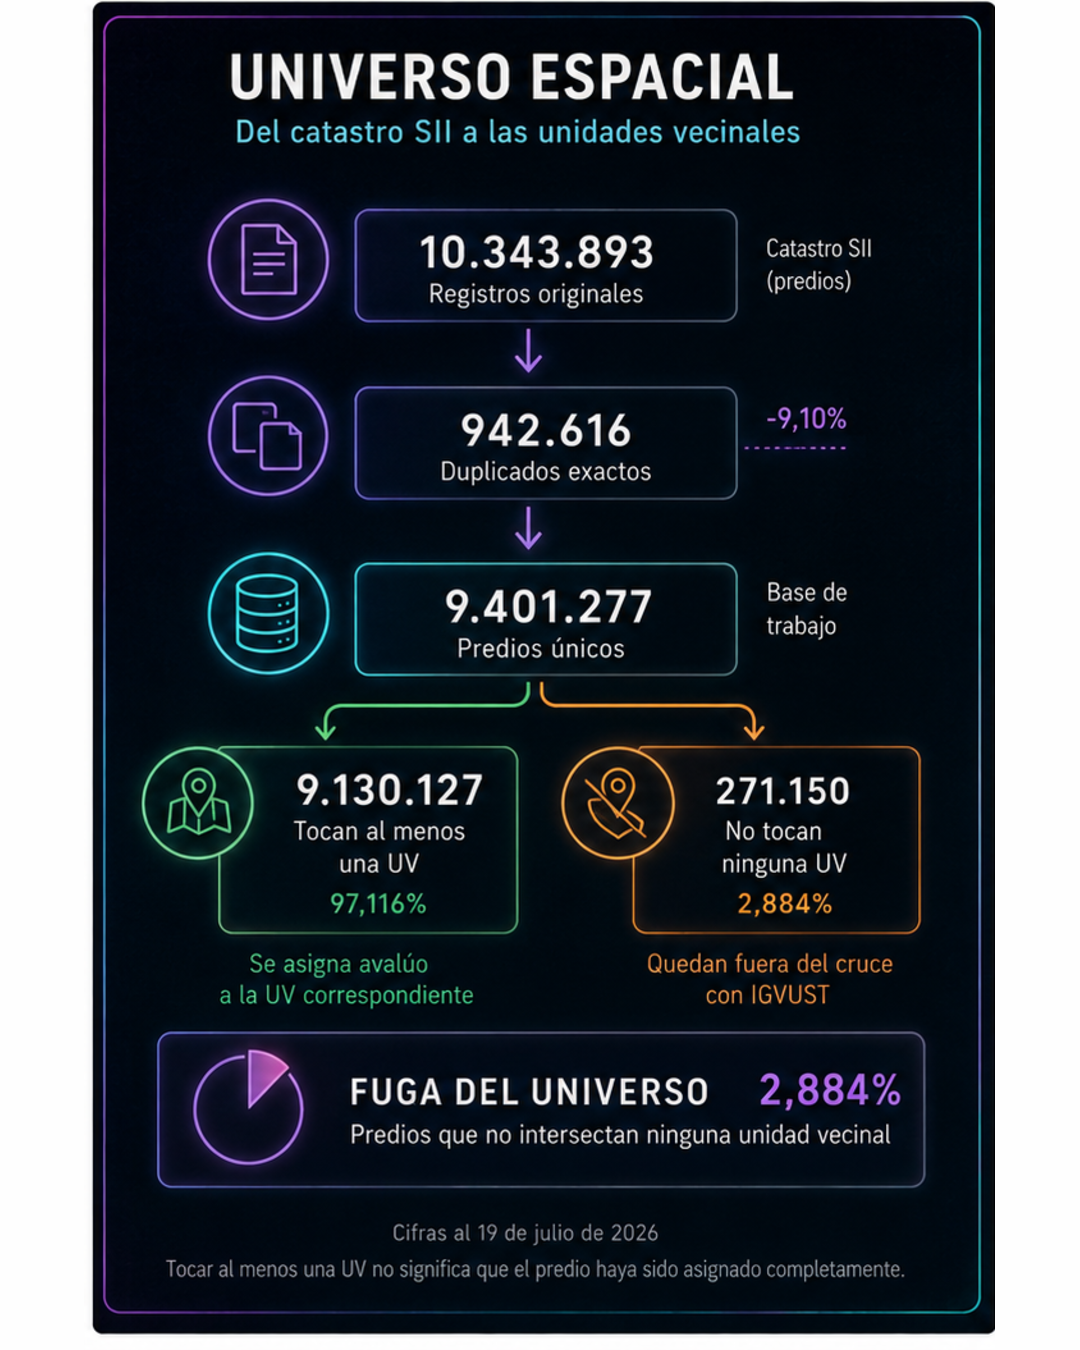
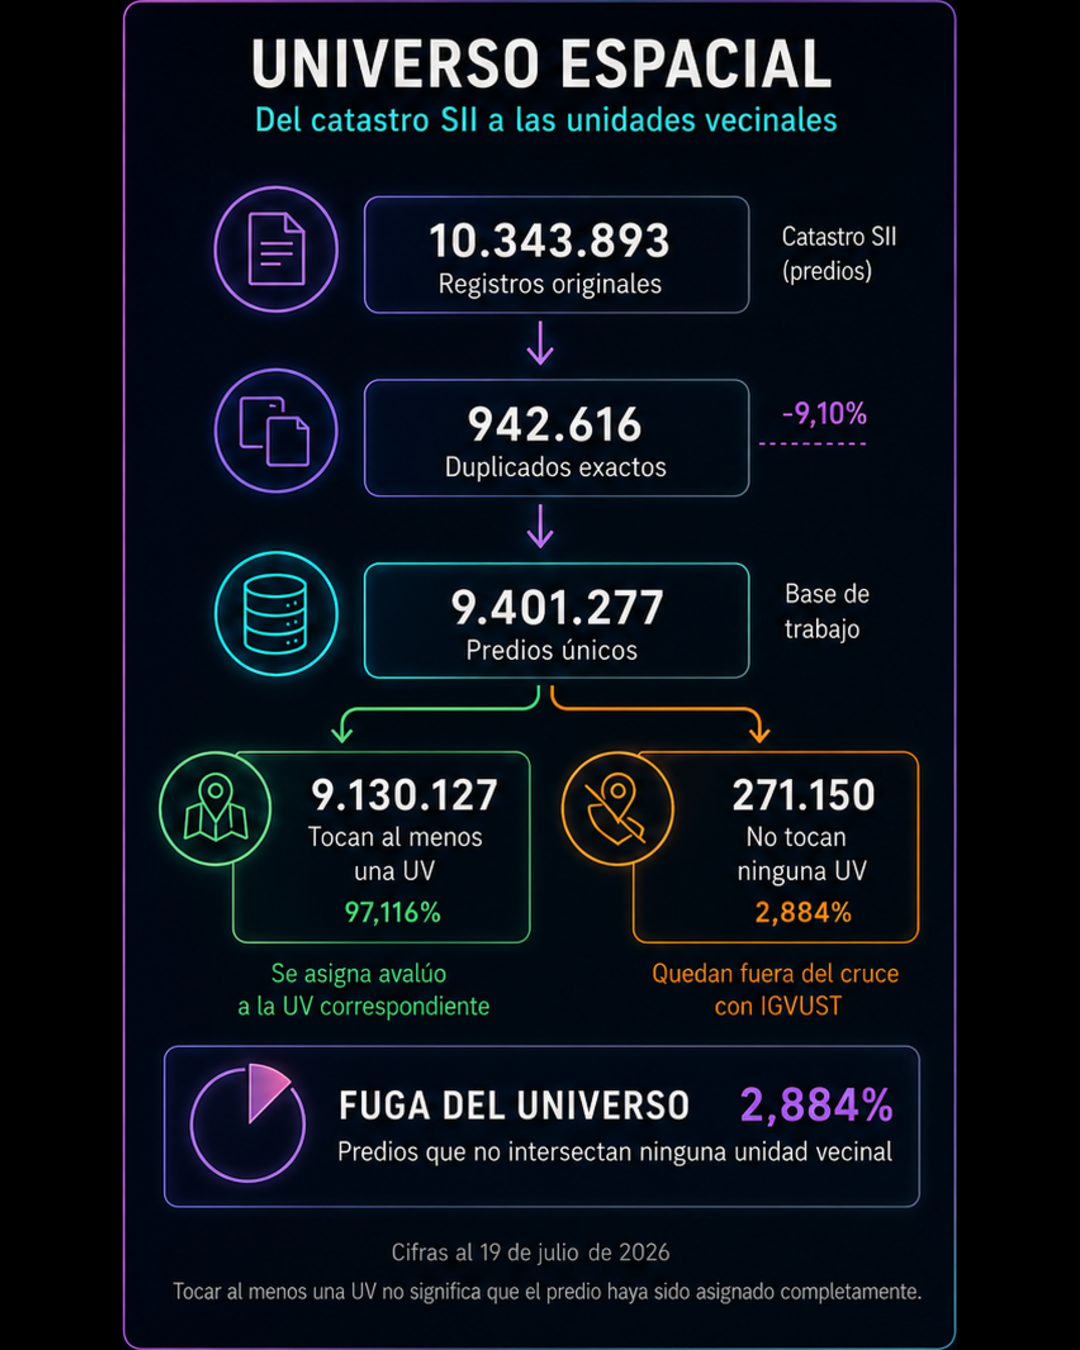
fix(post): los cuartiles IGVUST no son tramos iguales del indice
La figura bivariada rotulaba los cuartiles con rangos simetricos: (0-0,25),
(0,25-0,50), (0,50-0,75), (0,75-1,00). Es falso. Un cuartil corta por cantidad de
unidades, no en cuatro tramos iguales del rango: los limites reales dependen de
como se distribuya el indice, y solo coincidirian con esos numeros si la
distribucion fuera uniforme, que no hay razon para suponer.

La version nueva elimina los rangos y deja solo el orden: Q1 mayor vulnerabilidad,
Q2 media-alta, Q3 media-baja, Q4 menor. Es lo que el cuartil realmente afirma.

Es el tercer intento de esta figura. Los dos anteriores se rechazaron por invertir
la escala —ponian q1 como baja vulnerabilidad— y por afirmar incidencias por celda
que el procesamiento nunca produjo. Ambos errores siguen corregidos aca.

El archivo cambia de nombre porque el recorte del panel derecho da 1200x1685 y no
1200x1623: mantener el nombre viejo habria dejado el `height` del <img> mintiendo
sobre la proporcion real y provocando salto de maquetacion. Se actualizan nombre
y atributos juntos.

Se regeneran ademas las dos piezas de redes derivadas de la misma lamina.

diff --git a/_posts/2026-07-26-avaluo-vulnerabilidad-unidad-vecinal.md b/_posts/2026-07-26-avaluo-vulnerabilidad-unidad-vecinal.md
@@ -197,7 +197,7 @@ El IGVUST ordena unidades vecinales según vulnerabilidad socioterritorial. Mant
 {: .text-justify}
 
 <figure class="align-center">
-  <img src="{{ '/assets/images/avaluo-vulnerabilidad-unidad-vecinal/figures/bivariado-clasificacion-4x2-1200x1623.webp' | relative_url }}" alt="Matriz de cuatro filas por dos columnas: las filas son los cuartiles nacionales de vulnerabilidad IGVUST, desde q1 como mayor vulnerabilidad hasta q4 como menor; las columnas separan avalúo fiscal por metro cuadrado bajo y alto." width="1200" height="1623" loading="lazy" decoding="async">
+  <img src="{{ '/assets/images/avaluo-vulnerabilidad-unidad-vecinal/figures/bivariado-clasificacion-4x2-1200x1685.webp' | relative_url }}" alt="Matriz de cuatro filas por dos columnas: las filas son los cuartiles nacionales de vulnerabilidad IGVUST, desde q1 como mayor vulnerabilidad hasta q4 como menor; las columnas separan avalúo fiscal por metro cuadrado bajo y alto." width="1200" height="1685" loading="lazy" decoding="async">
   <figcaption><strong>Figura 3</strong> — La clasificación 4×2, sin colores todavía. Cuatro filas de cuartil IGVUST por dos columnas de avalúo por m². Cada celda nombra la combinación que le corresponde por definición; no informa cuántas UV caen en ella ni qué tan frecuente es. En el visor, la columna separa por la mediana de la propia región, no por un corte nacional. Elaboración propia.</figcaption>
 </figure>
 
